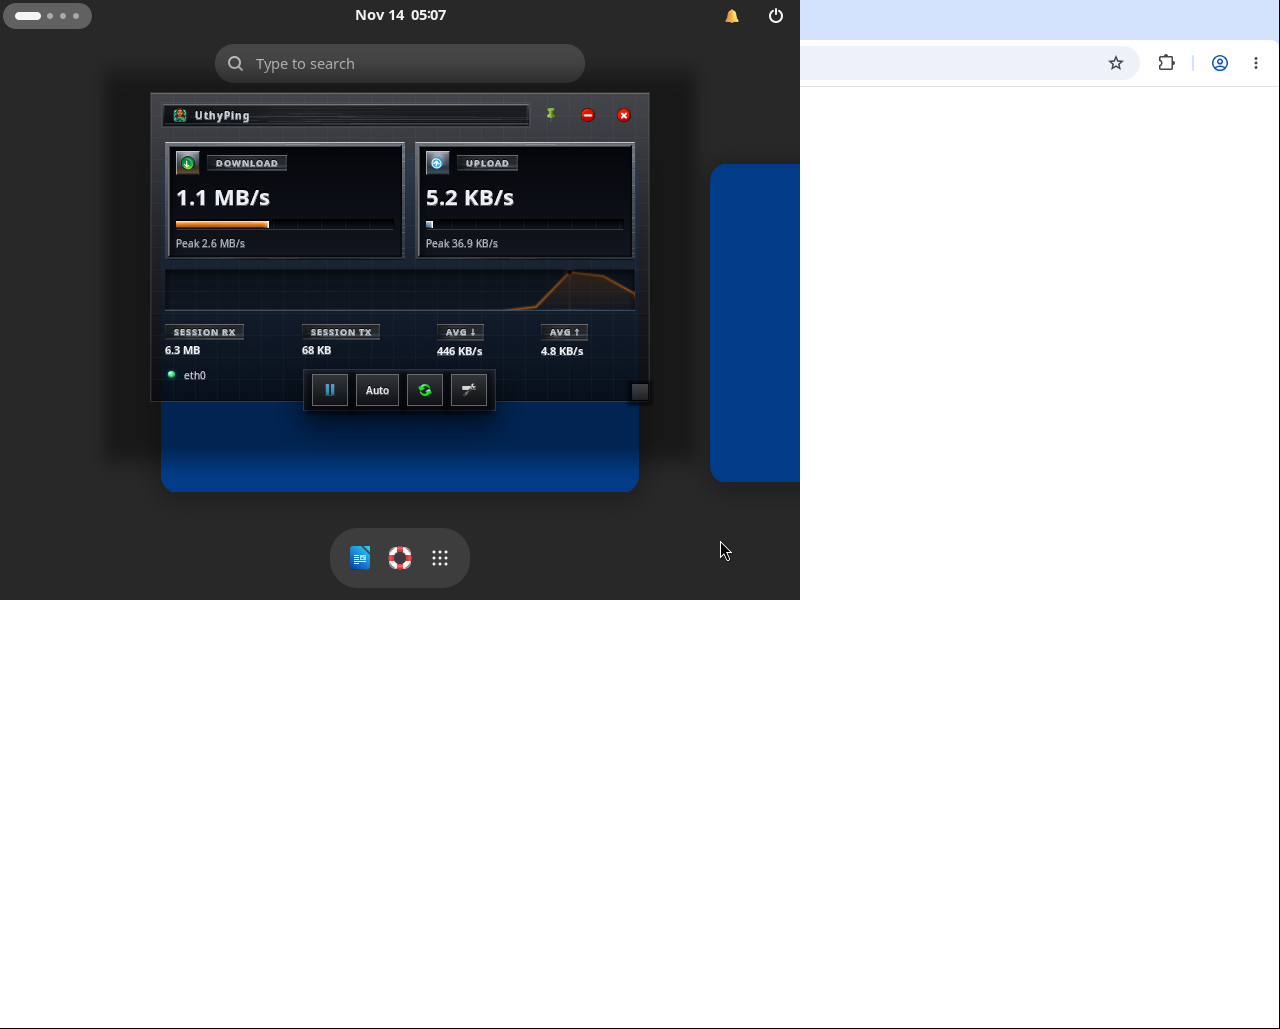
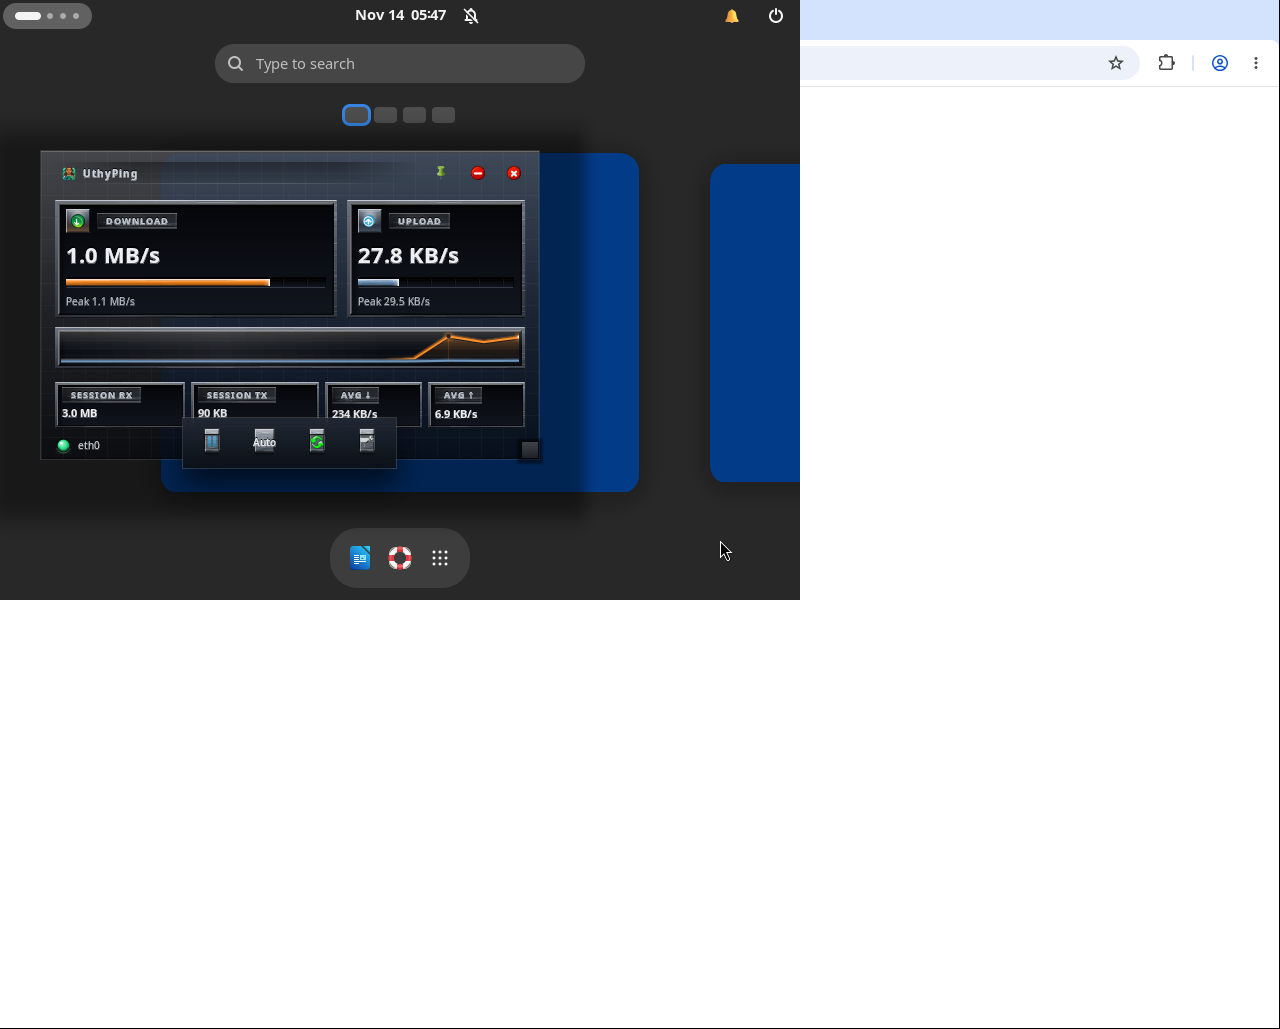
Document the instrument panel and refresh the captures
The UI specification gains the traffic window, the statistic slots, the
LED and the push buttons; the development notes gain the hover-tracking
and DEST_OUT rules; and the accessibility notes carry the new ratios: the
tube at 7.4:1 against the window floor, a statistic at 11.1:1, a cap at
4.8:1 against the tray it is mounted on and the LED at 17.7:1 against its
socket.

The captures are rebuilt from the instrument panel, and two material
sheets magnify the window, the tube, a statistic slot, the LED and a
control at rest, hovered, pressed and focused, so the depth can be judged
without a running desktop.

Changed region(s): [[0.0312, 0.0622, 0.5312, 0.4976]]

diff --git a/docs/UI_SPECIFICATION.md b/docs/UI_SPECIFICATION.md
@@ -135,6 +135,66 @@ The meter under the reading is a physical gauge:
   track at each sample, so resizing the widget rescales the meter instead of
   leaving it stuck at a fixed width.
 
+## The instrument panel
+
+The widget is one dark brushed-metal panel lit from a single source above it.
+Every surface is cut into that panel rather than laid on top of it, and every
+light cue follows the same direction: lit on the top and left, shadowed on the
+bottom and right.
+
+### The traffic window
+
+The live chart sits in a recessed window: the same machined frame, two-pixel
+bevel and deep cavity as the metric panels, with a glazed reflection across its
+top half and a faint diagonal sheen over the plot. The reflection is a separate
+layer above the traces, so the traffic line is behind glass rather than on top of
+it.
+
+Each wave is a glossy tube rather than a hairline, drawn in four passes: the
+glow it throws, a dark underside offset a pixel down, the body itself, and a
+specular line along its top. Underneath, the area fills with a translucent
+gradient that fades to nothing by the baseline, so the two waves overlap without
+muddying. The highest download sample keeps its halo and leader line, and the
+newest sample keeps its live head on the right edge.
+
+### The statistic row
+
+Each statistic is its own small machined slot, evenly spaced across the row: a
+scaled-down frame, a one-pixel bevel and a shallower cavity than the metric
+panels, with the letterpressed band and the debossed value inside it. Nothing is
+shared between them, so a statistic never reads as a cell of a table.
+
+### The connection LED
+
+A real indicator lamp: a recessed socket cut into the metal, its upper wall
+shadowed and its lower wall catching the light, with a domed lens inside it. The
+dome is lit from the upper left and dark at the lower right, carries a specular
+highlight, and throws a bloom that spills onto the surrounding metal as a faint
+reflection below the socket. The colour carries the state and the accessible name
+repeats it in words.
+
+### The push buttons
+
+Pause, Auto, Refresh and Settings are physical push buttons on the toolbar. Each
+is a square cap of brushed steel with a beveled edge lit on the top and left, a
+glossy reflection across its top half, and a cast shadow underneath so it sits
+proud of the tray; the glyph is pressed into the cap in its own small impression.
+Hovering lifts the cap and brightens the gloss; the control tracks no hover state of its own, so nothing is drawn behind the cap. Pressing flips the whole thing:
+the cap is gone, the button is a socket, the inner shadows fall from the top and
+left, the far wall catches the light, and the gloss dims. The refresh glyph keeps
+a faint bloom, because it is the control that lights up when it is used.
+
+The toolbar icons in the header stay frame-free on purpose: the header is the one
+place where the panel should read as uninterrupted metal.
+
+### The header
+
+The header carries no frame. The impression behind the name darkens towards its
+top edge and is erased at both ends - no edge is drawn there at all - with a
+single lit line along its bottom wall, so the name still reads as pressed into
+the metal without a box drawn around it. The logo sits directly to its left on the same line, and the two are
+aligned on their shared centre.
+
 ## Iconography
 
 `icons/` holds the supplied skeuomorphic control set — brand, notification, pin, pinned pin, minimize, expand, close, pause, play, refresh, settings, share, download and upload — prepared by `scripts/prepare-icons.py` from the sources in `assets/icons-source/`. Every icon is a physical object with its own bevel, highlight and contact shadow.

diff --git a/docs/DEVELOPMENT.md b/docs/DEVELOPMENT.md
@@ -79,6 +79,10 @@ Eight St behaviours were established by rendering inside a nested Shell and must
 5. **`font-feature-settings` is supported**, so tabular figures (`"tnum"`) can be requested for numeric readouts; `transform`, `filter` and repeating backgrounds are not, which is why the grid and the grain are painted in Cairo rather than declared in CSS.
 6. **One `text-shadow` per declaration, and no inner shadow for text.** A debossed glyph needs a dark edge above and a lit edge below, so `src/ui/engravedText.js` stacks two labels inside a `Clutter.BinLayout`: a dark copy translated up by the role's depth, and the ink copy carrying the single lit shadow. Anything that needs both cues has to be built this way.
 7. **A label that is allocated even a fraction under its natural width ellipsizes**, and a `BinLayout` sizes its container from its children, so padding on the label itself is a trap: put the padding on a `St.BoxLayout` row *inside* the band and leave the measured labels unpadded. `clutter_text.ellipsize` is also pinned explicitly, because the default mode would cut a label short instead of clipping it.
+11. **A control with a painted cap should not track hover at all.** St matches the Shell theme's `button:hover` and `button:focus` rules by element name, and those beat a bare class selector, so a transparent control picks up the theme's rounded blue outline as soon as the pointer crosses it. Clearing the theme's `background-gradient-*` helps but is not enough on its own, because our own hover wash would still be drawn behind the cap. `track_hover: false` takes the pseudo-class away entirely and leaves hover to the enter and leave handlers that already drive the material. Only `:focus` is styled, as the reserved border.
+12. **A painted surface is faded by erasing, not by drawing.** Cairo has no mask, but `DEST_OUT` removes what is already in the buffer in proportion to the alpha it is given, which is how the header impression loses its ends without a visible edge. The operator is set for the mask and put back to `OVER` afterwards.
+13. **The Shell theme styles `button:hover` and `button:focus`, and those rules beat a bare class selector.** St matches them by element name, so a control that is deliberately transparent and square picks up the theme's rounded blue outline as soon as the pointer crosses it. Every state a control has - `:hover`, `:active`, `:checked`, `:focus` - has to be restated for the extension's own classes, with the ring left to the `:focus` rule alone.
+12. **A BinLayout neither applies padding nor positions a child that does not expand.** The inset that keeps content clear of a painted frame belongs on a row inside the widget, and an anchored child needs a spacer rather than an alignment.
 9. **`Clutter.BinLayout` centres a child that does not expand, whatever its `x_align` says.** The meter bar has to start at the left edge of its channel, and the tray has to sit at the bottom of the card, so both are packed into a `St.BoxLayout` with a spacer that takes the remaining space rather than being positioned by alignment.
 10. **A plain `St.Widget` with a `BinLayout` ignores CSS padding.** Padding is applied by the layouts that implement it (`St.BoxLayout`, `St.Bin`, `St.Button`, `St.Label`), so the inset that keeps content clear of a painted frame belongs on a row *inside* the widget, not on the widget itself.
 8. **A child of a vertical `St.BoxLayout` is stretched to the full width unless it says otherwise** (`x_align` defaults to `FILL`), which turns a caption band into a full-width bar; a band that should hug its text sets `x_align: Clutter.ActorAlign.START`.

diff --git a/CHANGELOG.md b/CHANGELOG.md
@@ -2,6 +2,15 @@
 
 ## Unreleased
 
+- Set the traffic chart into a recessed window with a beveled metallic frame and a glazed reflection across its top half, drawn as a separate layer above the traces so the line sits behind glass. Each wave is now a glossy 3D tube - a glow, a dark underside, the body, and a specular line along its top - over a translucent gradient that fades to nothing by the baseline.
+- Gave every statistic its own small machined slot, with the letterpressed band and the debossed value inside it, evenly spaced across the row instead of sharing one surface.
+- Rebuilt the connection indicator as a real lamp: a recessed socket whose upper wall is shadowed and whose lower wall catches the light, a domed lens lit from the upper left, a bloom, and a faint reflection on the metal below it.
+- Rebuilt Pause, Auto, Refresh and Settings as physical push buttons: a brushed-steel cap with a beveled edge, a glossy top half and a cast shadow, with the glyph pressed into its own impression in the cap. Pressing replaces the cap with a sunken socket, flipping the inner shadows and dimming the gloss, and the refresh glyph keeps a faint bloom.
+- Removed the frame around the header. The impression behind the name now darkens towards its top edge and fades out at the sides, with one lit line along its bottom wall, so the name is still pressed into the metal without a box around it; the logo sits directly to its left on the same line.
+- Faded the header impression out at both ends by erasing it rather than darkening it, so the name sits in a soft recess instead of a band with visible ends, and gave the short window of the mini layout its own shallower frame and tighter padding.
+- Let the controls with painted caps track no hover state at all. The Shell theme styles `button:hover` by element name, which beat a bare class selector and drew its rounded blue outline over the cap whenever the pointer crossed one, and the extension's own hover wash was still drawn behind it.
+- Restated `:hover`, `:active`, `:checked` and `:focus` for the extension's own buttons. The Shell theme styles `button:hover` by element name, which beat a bare class selector and drew its rounded blue outline over the transparent controls whenever the pointer crossed one.
+
 - Rebuilt the DOWNLOAD and UPLOAD panels as slots machined into a dark brushed-metal surface: a thin aluminium frame with a specular glint along its top edge, a two-pixel bevel that is lit on the top and left inner edges and shadowed on the bottom and right, a cavity with an inner gradient reaching five pixels down from the opening, and near-white content inside it. The reading now measures 16.7:1 against the floor and the caption 11.9:1.
 - Mounted each metric icon on a domed badge instead of laying it on the panel: dark steel lit from above, a lit top and left rim over a dark bottom and right one, a radial gloss across the upper half, a reflection along the lower edge, a contact shadow and a faint tint of the metric colour. Corners stay square, so it reads as a machined socket rather than a medallion.
 - Replaced the flat progress bars with 3D meters. The track is a deeply recessed channel with a dark floor, a vertical inner gradient, a shadow along its top edge because the light comes from above, a lit far wall, a beveled metallic rim and tick marks etched every 24 pixels. The bar is a brushed-metal body lit from above with a glass-like specular strip along its top third, a dark base line and a bright one-pixel leading edge with a glow behind it, so the edge catches the light as the bar travels.

diff --git a/README.md b/README.md
@@ -18,6 +18,7 @@ A native GNOME Shell extension for a floating, translucent network monitor. It r
 - Square liquid-glass slab with a faint grid, a grain layer and silver rim lights, a floating control tray that hovers below the panel, and one glowing orange accent for anything focused, active or measured.
 - Live dual-layer area chart: gradient fills, a glow under each lit line, a haloed peak marker and a glowing live head on the newest sample.
 - 3D emerald connection LED beside the interface name, with tabular figures on every numeric readout so a changing digit never reflows its label.
+- The traffic chart sits in a recessed window under a glazed reflection, and its waves are glossy tubes with a lit leading edge rather than hairlines. Every statistic has its own small machined slot, the connection indicator is a socketed LED with a domed lens and a bloom, and the toolbar controls are physical push buttons that sink into a socket when pressed.
 - The two metric panels are slots machined into brushed aluminium: a glinting frame, a two-pixel lit bevel, a deep cavity, and a glossy badge mounting each icon. Their meters are physical gauges: an etched, recessed channel with a brushed copper or steel-blue bar whose leading edge glows as it moves.
 - Engraved typography throughout: every label is pressed into the surface with a dark inner shadow above the glyph and a sharp lit edge below it, captions are punched into brushed-metal bands, and the name plate is a painted impression with UthyPing letterpressed into it.
 - Engraved **UthyPing** name plate: a deep inset recess in the title strip with the lettering cut into the surface.

diff --git a/screenshots/README.md b/screenshots/README.md
@@ -14,6 +14,11 @@ Captured from a nested GNOME Shell 46 session (`gnome-shell --nested --wayland`)
 | `zoom-meter-download.png` | The copper meter bar at a high reading, with its lit leading edge |
 | `zoom-meter-upload.png` | The steel-blue meter bar at a low reading |
 | `machined-panel-specimen.png` | Material sheet: the slot, both meters and the icon badge magnified |
+| `zoom-graph.png` | The traffic window magnified: frame, glazed reflection and both tubes |
+| `zoom-stats.png` | The statistic row, each value in its own machined slot |
+| `zoom-led.png` | The socketed connection LED with its bloom and reflection |
+| `graph-and-stats-specimen.png` | Material sheet: the window, the tube, a statistic slot and the LED |
+| `controls-specimen.png` | Material sheet: a push button at rest, hovered and pressed, plus the frameless header |
 | `typography-specimen.png` | Every engraved type role magnified, so the press depth can be judged: the letterpressed name, the reading, a caption band, a statistic band and value, the interface name and a control label |
 | `zoom-mini.png` | Enlarged crop of the mini card |
 | `zoom-title-strip.png` | The `UthyPing` name plate: square recess, inset press, dark upper lip, lit lower lip and engraved lettering |

diff --git a/docs/ACCESSIBILITY.md b/docs/ACCESSIBILITY.md
@@ -102,6 +102,26 @@ carries meaning and a grey bar on a grey channel was hard to read; both meter
 colours are user settings and both are checked against the channel, not against
 the panel.
 
+### The instrument panel
+
+| Element | Ratio |
+| --- | --- |
+| Traffic tube against the window floor | 7.4:1 |
+| Statistic value in its slot | 11.1:1 |
+| Button label on its cap | 6.0:1 |
+| Cap against the tray it is mounted on | 4.8:1 |
+| LED dome against its socket | 17.7:1 |
+| Name on the header impression | 7.8:1 |
+
+The cap clears the tray it sits on by 4.8:1, and it is also bounded by a lit top
+edge and a cast shadow, so a button is never found by its fill alone. The
+pressed state replaces the cap with a socket rather than only darkening it, so
+the state survives a monochrome reading of the screen as well as a colour one.
+
+The header impression is a soft gradient with no outline, which is why its lit
+bottom wall is the only edge it gets: the name itself is still an engraved pair
+of labels, measured above.
+
 ### The engraved type scale
 
 Measured on the rendered pixels of the engraved type (ink sampled at its
